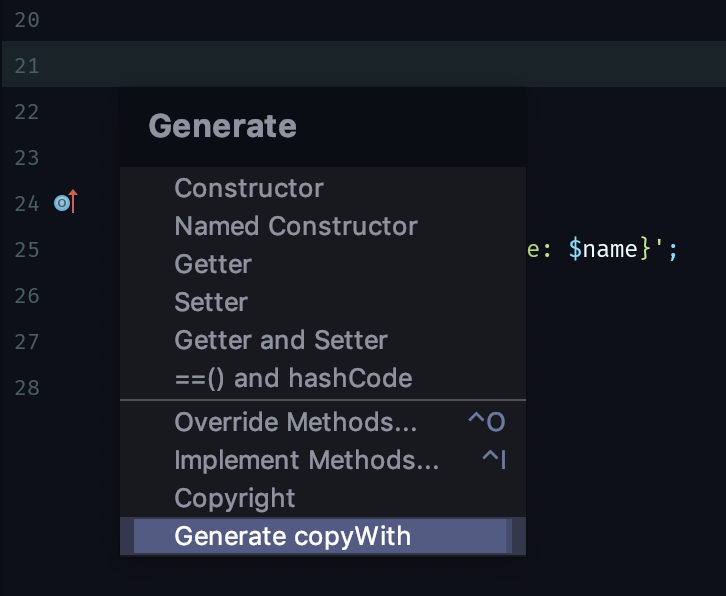
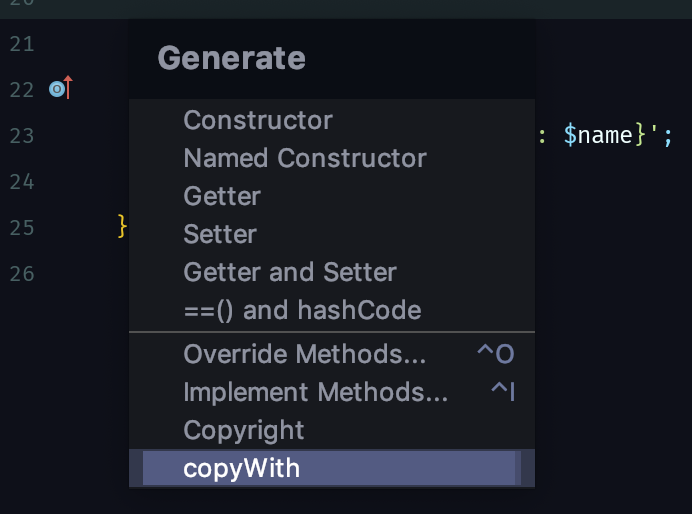
Improve descriptions

diff --git a/README.md b/README.md
@@ -1,4 +1,4 @@
-# dart_copy_with_plugin
+# Dart copyWith plugin
 
 This plugin autogenerates a `copyWith` implementation for Dart classes in Android Studio.
 
@@ -10,9 +10,9 @@ Instructions:
 
 ![ScreenShot](img/screenshot.png)
 
-Alternatively, right click on file and then select "Generate..."
+Alternatively, right click in the editor and select "Generate..."
 
-- Click on "Generate copyWith"
+- Select the "copyWith" menu item.
  
 ### Current limitations:
 
